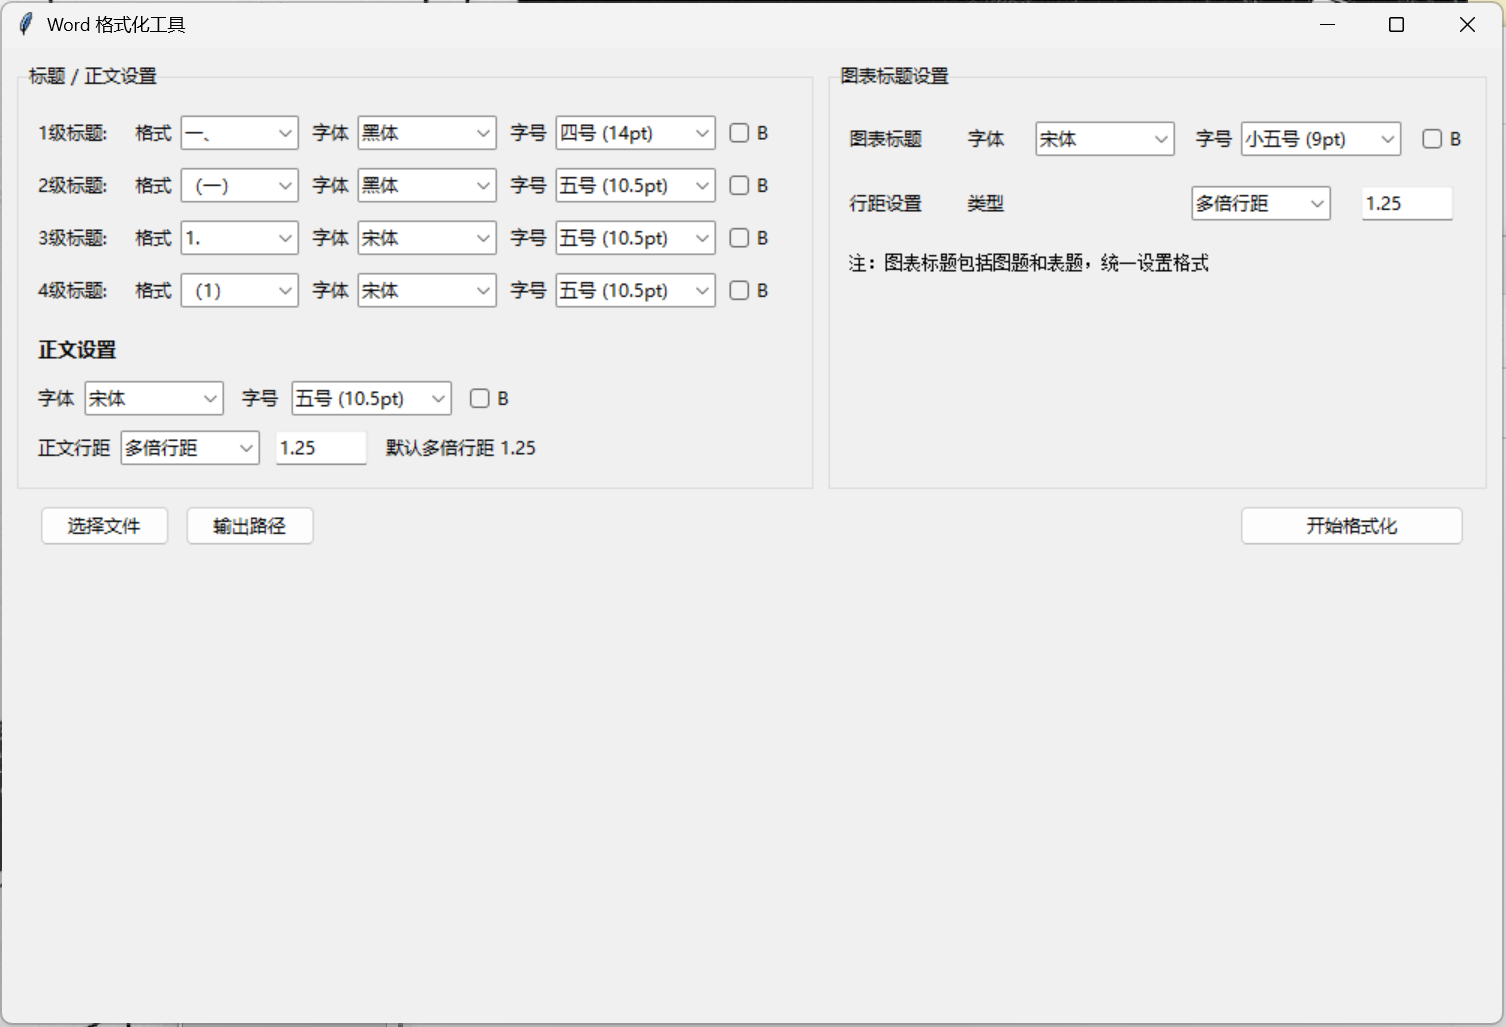
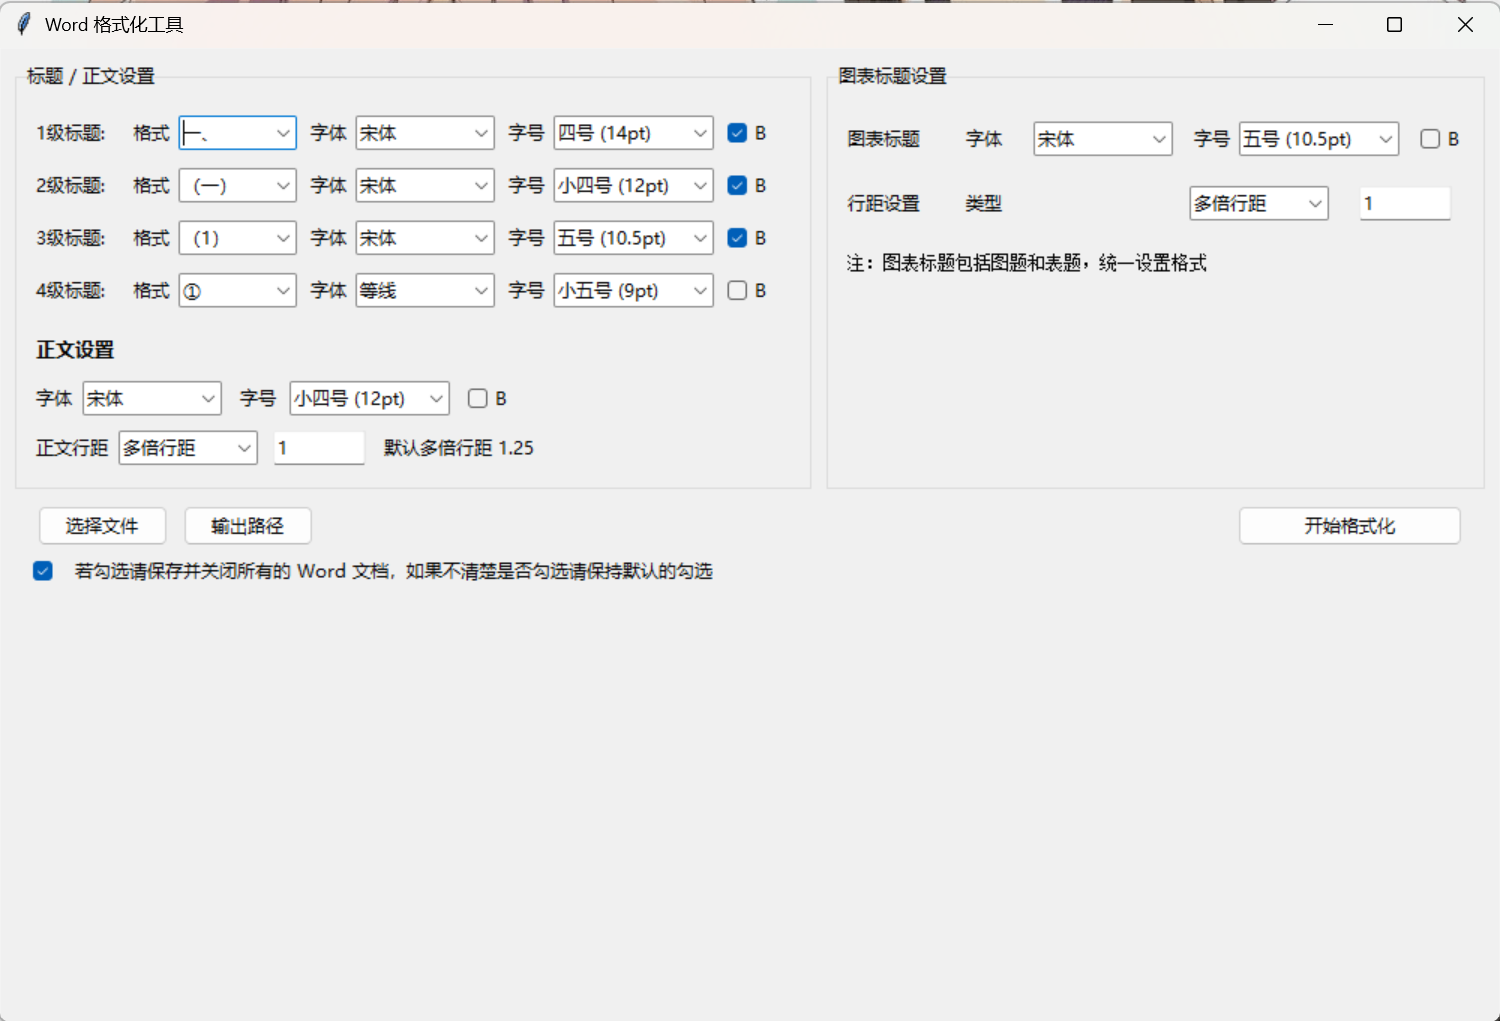
11

diff --git a/src/wordtool/core/formatter.py b/src/wordtool/core/formatter.py
@@ -9,12 +9,12 @@ from docx.enum.text import WD_LINE_SPACING
 import win32com.client as win32
 import re
 
-
+from docx.enum.style import WD_STYLE_TYPE
 
 
 TITLE_FORMATS = [
     "一", "一、", "（一）", "（一）、", "（一）.",
-    "（1）", "（1）、", "（1）.", "1", "1.", "1、",
+    "（1）", "（1）、", "（1）.", "1", "1.", "1、","1.1","1.1.1",
     "a", "a.", "A", "A.", "①", "I", "I.", "（I）"
 ]
 
@@ -23,16 +23,19 @@ _FORMAT_TO_REGEX = {
     "一": r"^[一二三四五六七八九十]+\s*",  # 匹配 "一 " 或 "二 " (无标点)
     "一、": r"^[一二三四五六七八九十]+[、\.]\s*",  # 匹配 "一、", "二.", "三 " (带顿号或点号)
     "（一）": r"^（[一二三四五六七八九十]+）\s*",  # 匹配 "(一) ", "(二) "
-    "（一）、": r"^（[一二三四五六七八九十]+）[、\.]?\s*",  # 匹配 "(一) 、", "(二) ", "(三)."
-    "（一）\.": r"^（[一二三四五六七八九十]+）[、\.]\s*",  # 同上，匹配带点号或顿号
 
     # ------------------ 阿拉伯数字类 ----------------------
-    "1": r"^\d+\s*",  # 匹配 "1 " 或 "2 " (无标点)
-    "1.": r"^\d+[、\.]\s*",  # 匹配 "1.", "2、", "3 " (带点号或顿号)
-    "1、": r"^\d+[、\.]\s*",  # 同上
+    "1": r"^\d+\s*",  # 匹配 "1 " 或 "2 " (无标点)    "1": r"^\d+(?![\.])\s*",
+
+    "1.": r"^\d+\.(?!\d)\s*",
+
+    "1.1": r"^\d+\.\d+(?!\.)\s*",
+
+    "1.1.1": r"^\d+\.\d+\.\d+(?!\.)\s*",
+
+    "1.1.1.1": r"^\d+\.\d+\.\d+\.\d+(?!\.)\s*",
+
     "（1）": r"^（\d+）\s*",  # 匹配 "(1) ", "(2) "
-    "（1）、": r"^（\d+）[、\.]?\s*",  # 匹配 "(1) 、", "(2) ", "(3)."
-    "（1）\.": r"^（\d+）[、\.]\s*",  # 同上
 
     # ------------------ 字母和罗马数字类 --------------------
     "a": r"^[a-z]{1,2}\s*",  # 匹配 "a " 或 "b "
@@ -64,6 +67,20 @@ def extract_pt(size_str: str) -> float:
 
     return 12.0
 
+def ensure_heading_style(doc, level: int):
+    """
+    确保文档中存在 Heading {level} 样式
+    """
+    style_name = f"Heading {level}"
+
+    try:
+        return doc.styles[style_name]
+    except KeyError:
+        style = doc.styles.add_style(style_name, WD_STYLE_TYPE.PARAGRAPH)
+        style.base_style = doc.styles["Normal"]
+        return style
+
+
 class WordFormatter:
     def __init__(self, file_path, config: dict):
         self.file_path = file_path
@@ -72,26 +89,75 @@ class WordFormatter:
         self.body = config.get("body", {})
         self.figure = config.get("figure", {})
         self.table = config.get("table", {})
+        #读取是否展开自动编号（默认 True）
+        self.expand_numbering = (
+            config.get("options", {})
+            .get("expand_numbering", True)
+        )
 
-        # ----------------------------------------------------------------------
-        # 使用 win32com 展开 Word 自动编号 这里需要关闭word编辑器
-        # ----------------------------------------------------------------------
+
     def _expand_numbering(self, input_path, output_path):
         """
-        调用 Word COM 将自动编号转成真实文本
+        使用 Word COM 将自动编号转为真实文本
+        - 若系统无 Office / win32com 不可用 → 自动跳过
+        - 若路径非法 / 打不开 → 自动跳过
+        - 任何异常不影响主流程
         """
+        import os
+
+        # 路径标准化（Word COM 对路径极其敏感）
+        input_path = os.path.abspath(input_path)
+        output_path = os.path.abspath(output_path)
+
+        # 输入文件不存在，直接跳过
+        if not os.path.exists(input_path):
+            print(f"[WordFormatter] Skip expand numbering: file not found: {input_path}")
+            return input_path
+
+        # 尝试导入 win32com（判断是否有 Office 能力）
         try:
-            word = win32.Dispatch("Word.Application")
+            import win32com.client as win32
+        except ImportError:
+            print("[WordFormatter] Skip expand numbering: win32com not available (no Office?)")
+            return input_path
+
+        word = None
+        doc = None
+
+        try:
+            # 4⃣ 使用 DispatchEx，避免抢占已有 Word 实例
+            word = win32.DispatchEx("Word.Application")
             word.Visible = False
-            doc = word.Documents.Open(input_path)
-            doc.ConvertNumbersToText()  # 将自动编号展开
+            word.DisplayAlerts = 0  # 禁止弹窗
+
+            # 打开文档（只读 = False）
+            doc = word.Documents.Open(input_path, ReadOnly=False)
+
+            # 展开自动编号
+            doc.ConvertNumbersToText()
+
+            # 保存为新文件
             doc.SaveAs(output_path)
-            doc.Close()
-            word.Quit()
+
             return output_path
+
         except Exception as e:
-            print(f"Error expanding numbering: {e}")
-            return input_path  # 出错就返回原文件
+            print(f"[WordFormatter] Error expanding numbering: {e}")
+            return input_path
+
+        finally:
+            # 8⃣ 资源清理（必须）
+            try:
+                if doc is not None:
+                    doc.Close(False)
+            except Exception:
+                pass
+
+            try:
+                if word is not None:
+                    word.Quit()
+            except Exception:
+                pass
 
     # ----------------------------------------------------------------------
     # 设置文本 run 样式（图片 run 跳过）
@@ -122,7 +188,7 @@ class WordFormatter:
             text = text.lstrip(" \t")
 
             # 遍历 title1~title4
-            for i in range(1, 5):
+            for i in range(4, 0, -1):
                 key = f"title{i}"
                 fmt = self.titles.get(key, {}).get("format", "")
                 if not fmt:
@@ -155,7 +221,7 @@ class WordFormatter:
         if not normalized_text:
             return 0
 
-        for i in range(1, 5):
+        for i in range(4, 0, -1):
             key = f"title{i}"
             # 2. 从 JSON 配置中获取用户设定的标识 (例如 "（1）" 或 "1.")
             format_key = self.titles.get(key, {}).get("format", "")
@@ -185,10 +251,12 @@ class WordFormatter:
             key = f"title{level}"
             return self.titles.get(key, self.body)
 
+
+
     # ----------------------------------------------------------------------
     # 应用样式到段落
     # ----------------------------------------------------------------------
-    def _apply_style(self, paragraph, level, heading_style=True, caption_type=None):
+    def _apply_style(self, paragraph, level,doc, heading_style=True, caption_type=None):
         """
         paragraph: 要设置样式的段落
         level: 标题等级，0 表示正文或图表标题
@@ -213,7 +281,8 @@ class WordFormatter:
 
         # 设置段落样式（标题等级大于0才使用 Heading）
         if heading_style and level > 0:
-            paragraph.style = f'Heading {level}'
+            ensure_heading_style(doc, level)
+            paragraph.style = f"Heading {level}"
 
         # 设置 run 样式
         for run in paragraph.runs:
@@ -258,7 +327,7 @@ class WordFormatter:
             if para._element.xpath(".//w:drawing"):
                 if i + 1 < len(paragraphs) and paragraphs[i + 1].text.strip().startswith("图"):
                     caption_para = paragraphs[i + 1]
-                    self._apply_style(caption_para, level=0, caption_type="caption")
+                    self._apply_style(caption_para, level=0,doc=doc,caption_type="caption")
                     caption_para.alignment = WD_PARAGRAPH_ALIGNMENT.CENTER
 
             # 表格上方表题
@@ -266,7 +335,7 @@ class WordFormatter:
             if next_elem is not None and next_elem.tag.endswith("tbl"):
                 if para.text.strip().startswith("表"):
                     caption_para = para
-                    self._apply_style(caption_para, level=0, caption_type="caption")
+                    self._apply_style(caption_para, level=0,doc=doc, caption_type="caption")
                     caption_para.alignment = WD_PARAGRAPH_ALIGNMENT.CENTER
 
     def _normalize_paragraph_indent(self, doc):
@@ -315,8 +384,14 @@ class WordFormatter:
     def save(self, output_path):
         try:
 
-            # ----------------- 1. 先展开自动编号 -----------------
-            expanded_path = self._expand_numbering(self.file_path, output_path.replace(".docx", "_expanded.docx"))
+            # ----------------- 1. 是否展开自动编号 -----------------
+            if self.expand_numbering:
+                expanded_path = self._expand_numbering(
+                    self.file_path,
+                    output_path.replace(".docx", "_expanded.docx")
+                )
+            else:
+                expanded_path = self.file_path
             # ----------------- 2. 用 python-docx 打开展开后的文档 -----------------
             doc = Document(expanded_path)
 
@@ -334,7 +409,7 @@ class WordFormatter:
             # ----------------- 4. 应用样式（标题/正文） -----------------
             for para in doc.paragraphs:
                 level = self._detect_level(para.text)
-                self._apply_style(para, level)
+                self._apply_style(para, level, doc)
 
 
             self._normalize_paragraph_indent(doc)

diff --git a/src/wordtool/app/ui_components.py b/src/wordtool/app/ui_components.py
@@ -26,6 +26,7 @@ class WordFormatterUI:
         self.root.title("Word 格式化工具")
         self.root.geometry("1000x650")  # 增加窗口尺寸
 
+        self.expand_numbering_var = tk.BooleanVar(value=True)
         # 设置图标
         icon_path = resource_path("icon.ico")
         if os.path.exists(icon_path):
@@ -35,8 +36,8 @@ class WordFormatterUI:
 
         # 可识别标题格式
         self.title_formats = [
-            "一", "一、", "（一）", "（一）、", "（一）.",
-            "（1）", "（1）、", "（1）.", "1", "1.", "1、",
+            "一", "一、", "（一）","（1）",
+            "1", "1.","1.1","1.1.1","1.1.1.1",
             "a", "a.", "A", "A.", "①", "I", "I.", "（I）"
         ]
 
@@ -225,6 +226,23 @@ class WordFormatterUI:
         self.btn_start = ttk.Button(right_btn_frame, text="开始格式化", width=20)
         self.btn_start.pack(side="right", padx=5)
 
+        # ---------- 自动编号选项 ----------
+        option_frame = ttk.Frame(bottom)
+        option_frame.grid(row=1, column=0, columnspan=2, sticky="w", pady=(5, 0))
+
+        ttk.Checkbutton(
+            option_frame,
+            variable=self.expand_numbering_var
+        ).pack(side="left")
+
+        ttk.Label(
+            option_frame,
+            text="若勾选请保存并关闭所有的 Word 文档，如果不清楚是否勾选请保持默认的勾选",
+            wraplength=800
+        ).pack(side="left", padx=5)
+
+
+
     # ---------------------- 填充配置 ----------------------
     def _apply_config_to_ui(self):
         cfg = self.config_data
@@ -289,7 +307,10 @@ class WordFormatterUI:
             "line_rule": self.caption_line_rule.get(),
             "spacing": self.caption_spacing.get()
         }
-
+        # win32是否启用的选项
+        cfg["options"] = {
+            "expand_numbering": self.expand_numbering_var.get()
+        }
         return cfg
 
     def run(self):

diff --git a/Readme.md b/Readme.md
@@ -1,6 +1,6 @@
 # WordFormatter —— Word 一键规范化排版桌面工具
 
-**WordFormatter** 是一款用于 **自动整理 Word 文档标题编号与段落格式** 的桌面工具。  
+**WordFormatter** 是一款用于 格式化/规格化 word文档的桌面工具。  
 
 ## ✨具体点的功能：
 1.根据用户设置的标题的格式（例如 1. （一））,识别每级标题和正文，并应用用户规定的字体,字号与是否加粗.
@@ -24,9 +24,20 @@
 ---
 # 怎么使用
 
-
 [WordFormatter v2.0.0 Release](https://github.com/moon-like-gray-cat/WordFormatter/releases/tag/v2.0.0)
 只需要下载 .exe 后缀的文件即可
+
+
+
+要求>win7操作系统
+
+如果您的电脑上没有Microsoft office （只有WPS office 也不行）则无法识别'自动编号列表'的标题序号，其他功能不影响
+
+请注意最底下的勾选，不勾选比较快（但是不勾选无法处理”自动编号“的情况）
+
+假设您的文档名称为xxx.docx 程序会在您选定的路径中生成一个或者两个word文档，真正的文件是'格式化_xxx.docx'
+
+如果显示生成了文档，但是在对应的文件夹中没有对应的文件，说明程序处理过程中出错了，可以在issue中提出问题。
 
 ---
 
@@ -68,6 +79,9 @@ text
 `一` `1` `a` 等常见字符，
 
 请避免正文段落以这些字符开头，否则可能被判断为标题编号。
+
+
+基于某种三维度碳基生物创作神秘文档的共识，在`1.` 和`1.1`都出现的情况下，`1.1`是比`1`数字更大的标题，如果您反其道而行，那么标题的应用格式会出现问题
 
 
 ---
